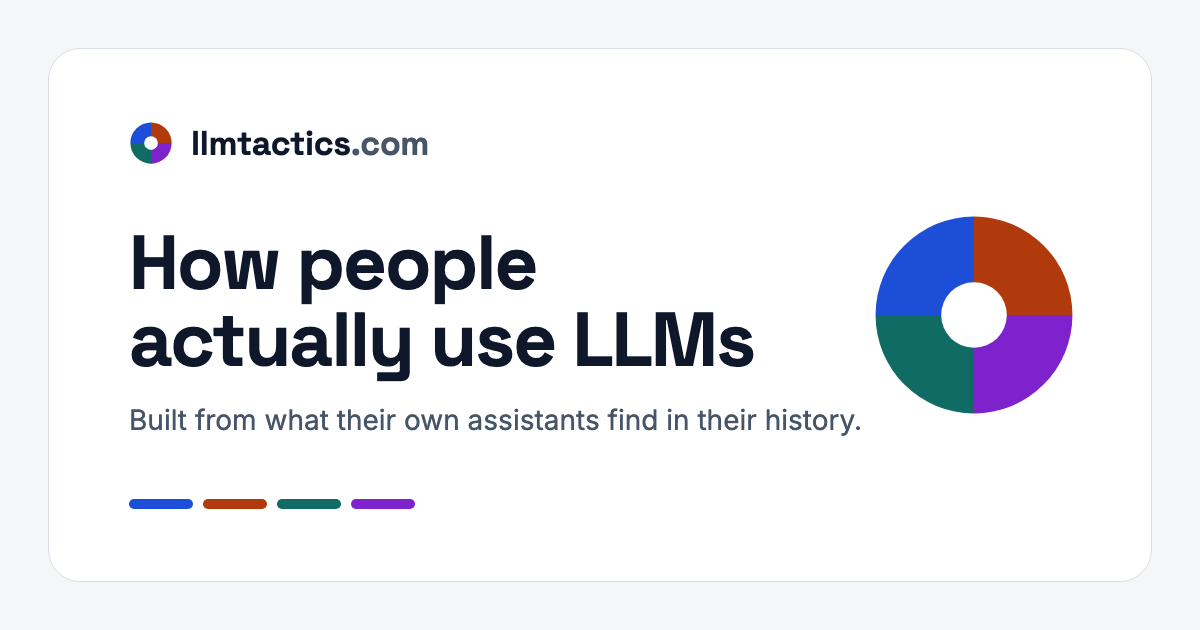
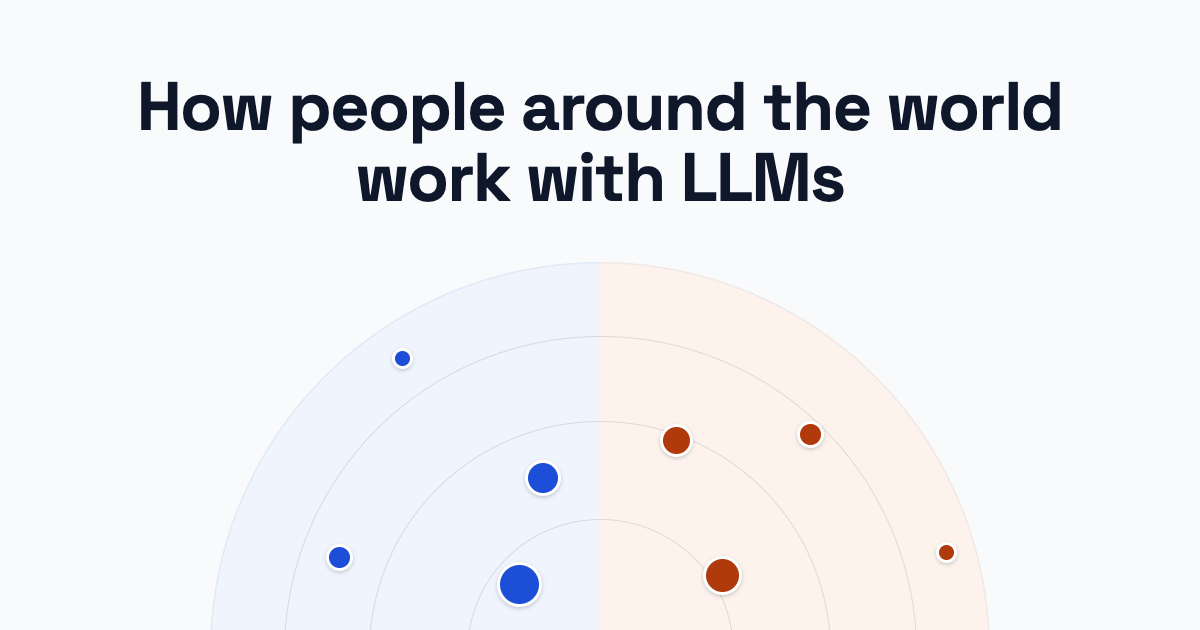
Draw the share image as the deck's own radar, rising under the headline
The old image was a solid four-colour pie the site never shows; the new one
uses the radar's pale quadrants, rings and dots, and the intro's heading.

diff --git a/lib/html.js b/lib/html.js
@@ -22,7 +22,7 @@ export const SITE = process.env.SITE_NAME || 'llmtactics.com';
 // Link previews need absolute URLs, so the share image is addressed from PUBLIC_URL.
 const ORIGIN = (process.env.PUBLIC_URL || `https://${SITE}`).replace(/\/$/, '');
 const DESCRIPTION = 'How people work with LLMs, built from what their own assistants find in their history.';
-const OG_ALT = `${SITE}: how people actually use LLMs, built from what their own assistants find in their history.`;
+const OG_ALT = `${SITE}: how people around the world work with LLMs, over a radar of the tactics they use.`;
 
 // `deck`: a full-screen slide page with no top bar or footer.
 // `bare`: no top bar or footer, normal scrolling. `nav`: the top bar's links (the admin area).
